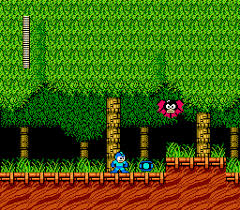
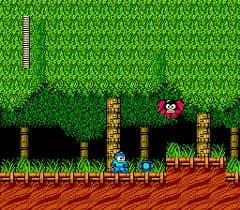
Decrease image file size

diff --git a/bootstrap.html b/bootstrap.html
@@ -35,7 +35,7 @@
             <div class="container col-xxl-8 px-4 py-5">
                 <div class="row flex-lg-row-reverse align-items-center g-5 py-5">
                     <div class="col-10 col-sm-8 col-lg-6">
-                        <img src="img/6.gif" class="d-block mx-lg-auto img-fluid" alt="Bootstrap Themes" width="700" height="500" loading="lazy">
+                        <img src="img/6.jpg" class="d-block mx-lg-auto img-fluid" alt="Bootstrap Themes" width="700" height="500" loading="lazy">
                     </div>
                     <div class="col-lg-6">
                         <h1 class="display-5 fw-bold lh-1 mb-3" style="text-align: center; padding-bottom: 25px;">Juegos de Disparos</h1>
@@ -74,7 +74,7 @@
                     </div>
                     <div class="col">
                         <div class="card">
-                            <img class="card-img-top" style="height: 300px;" src="img/10.png" alt="Half-Life 2">
+                            <img class="card-img-top" style="height: 300px;" src="img/10.jpg" alt="Half-Life 2">
                             <div class="card-body">
                                 <h5 class="card-title">Half-Life 2</h5>
                             </div>

diff --git a/css/styles.css b/css/styles.css
@@ -151,7 +151,6 @@ section {
   width: 65%;
   padding: 10px;
   margin: 10px;
-  background-color: #f1f1f1;
   border-radius: 10px;
 }
 
@@ -161,7 +160,6 @@ aside {
   width: 30%;
   padding: 10px;
   margin: 10px;
-  background-color: #f1f1f1;
   border-radius: 10px;
 }
 

diff --git a/javascript.html b/javascript.html
@@ -33,7 +33,6 @@
         
         div {
           border-radius: 5px;
-          background-color: #f2f2f2;
           padding: 20px;
         }
     </style>
